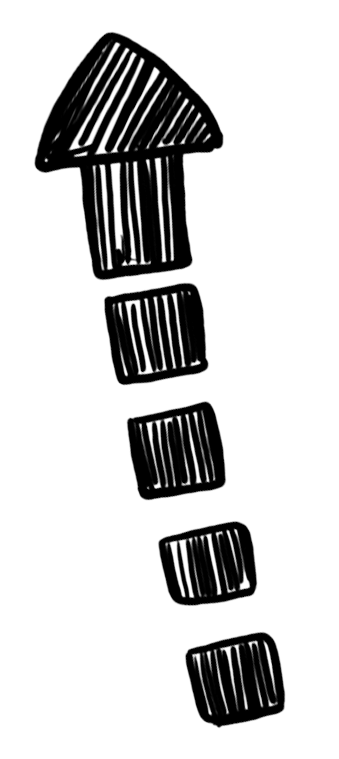
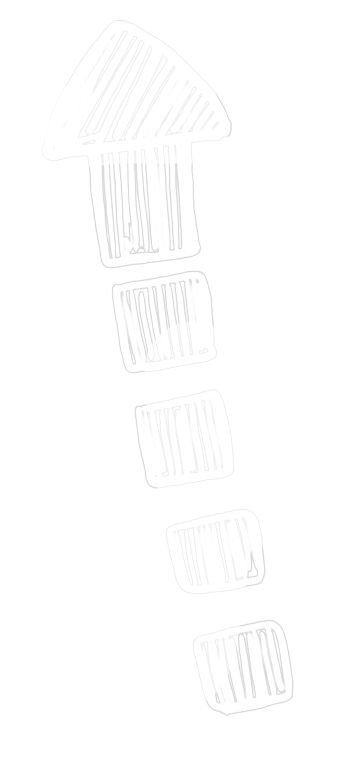
Updated css tsyles of features and added new inage

Changed region(s): [[0.0885, 0.0304, 0.8555, 0.9723]]

diff --git a/src/components/Feature.jsx b/src/components/Feature.jsx
@@ -2,8 +2,9 @@ import React from "react";
 // import coffeeImg from "../assets/star_coffee2.png"; 
 import coffeeImg from "../assets/coffee_image.png"; 
 // import arrowLeft from "../assets/hand_arrow.png"; 
+// import arrowLeft from "../assets/hand_arrow3.png"; 
 import arrowLeft from "../assets/hand_arrow2.png"; 
-import arrowRight from "../assets/hand_arrow3.png"; 
+import arrowRight from "../assets/hand_arrow4.png"; 
 
 import "../styles/Feature.css"; 
 

diff --git a/src/styles/Feature.css b/src/styles/Feature.css
@@ -83,8 +83,8 @@
 }
 
 .feature-text-left {
-  top: 50%;
-  left: 6%;
+  top: 53%;
+  left: 4%;
   text-align: start;
 }
 
@@ -110,7 +110,8 @@
 }
 
 .arrow-right {
-  top: 32%;
+  top: 31%;
   right: 70%;
-   width: 100px;
+   width: 90px;
+   rotate: 48deg;
 }
